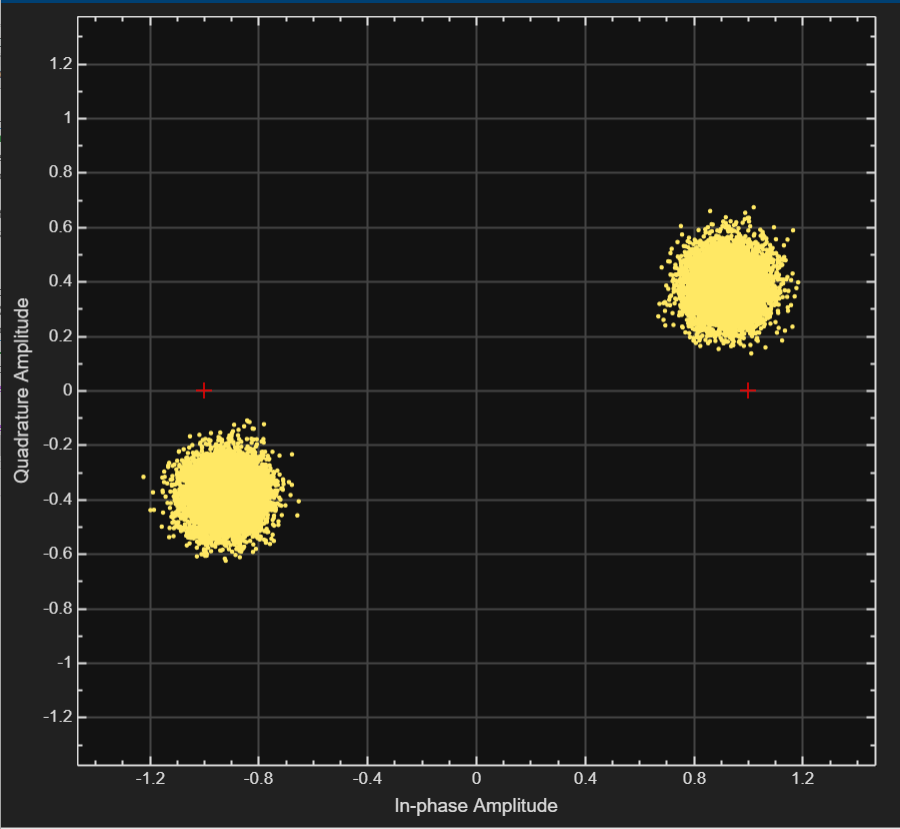
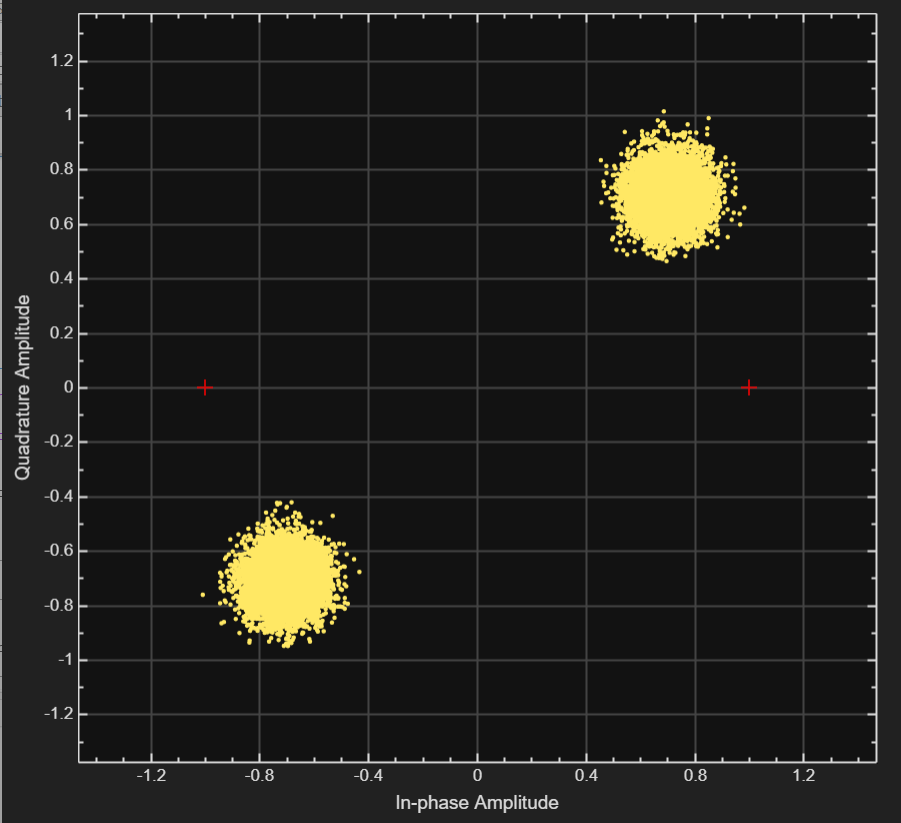
Rewording part of lab 5

Changed region(s): [[0.0, 0.0, 1.0, 0.9113], [0.0933, 0.9113, 0.9644, 1.0], [0.0, 0.9721, 0.0311, 1.0]]

diff --git a/5/lab_report.tex b/5/lab_report.tex
@@ -520,7 +520,7 @@ Examining the figures, we see that the EVM without timing compensation is substa
 	\label{fig::evm_pi_4_phase_offset}
 \end{figure}
 
-Comparing the results of Figure \ref{fig::evm_pi_4_phase_offset} to Figures \ref{fig::evm_no_timing_offset} and \ref{fig::evm_0p25_symbol_offset}, we see that the EVM is degraded substantially. We can make sense of this value by computing the error between a unit-power constellation point and a constellation point without noise and a phase error of $\pi/4$. Doing so, we find:
+Comparing the results of both Figures, we see that the timing compensation logic does not improve the EVM when we have a phase offset. At high SNR, the minimum error converges to
 
 \begin{equation}
 	\text{error} = (1 - \cos\pi/4)^2 + \sin^2\pi/4 = 1 - 2\cos\pi/4 + \cos^2\pi/4 + \sin^2\pi/4 = 2 - 2\cos\pi/4 \approx 0.58578 
@@ -536,7 +536,7 @@ Comparing the results of Figure \ref{fig::evm_pi_4_phase_offset} to Figures \ref
 
 \begin{figure}[H]
 	\centerline{\fbox{\includegraphics[width=0.5\textwidth]{constellation_phase_error.png}}}
-	\caption{Constellation after Timing Compensation with 20 dB SNR and a $\protect\pi/8$ Phase Offset}
+	\caption{Constellation after Timing Compensation with 20 dB SNR and a $\protect\pi/4$ Phase Offset}
 	\label{fig::constellation_phase_error}
 \end{figure}
 

diff --git a/5/code/timingRecovery.m b/5/code/timingRecovery.m
@@ -3,14 +3,14 @@ clear; clc;
 %% General system details
 numSamples = 10000;
 modulationOrder = 2;
-snr = 5:5:40;
+snr = 20; %5:5:40;
 delay = 0;
 phaseOffset = pi/4;
 N = 8;
 NF = 4;
-showConstellations = false;
+showConstellations = true;
 useIdealRef = true;
-useDspkMod = true;
+useDspkMod = false;
 %% Visuals
 cdPre = comm.ConstellationDiagram('ReferenceConstellation', [-1 1],...
     'Name','Baseband');
